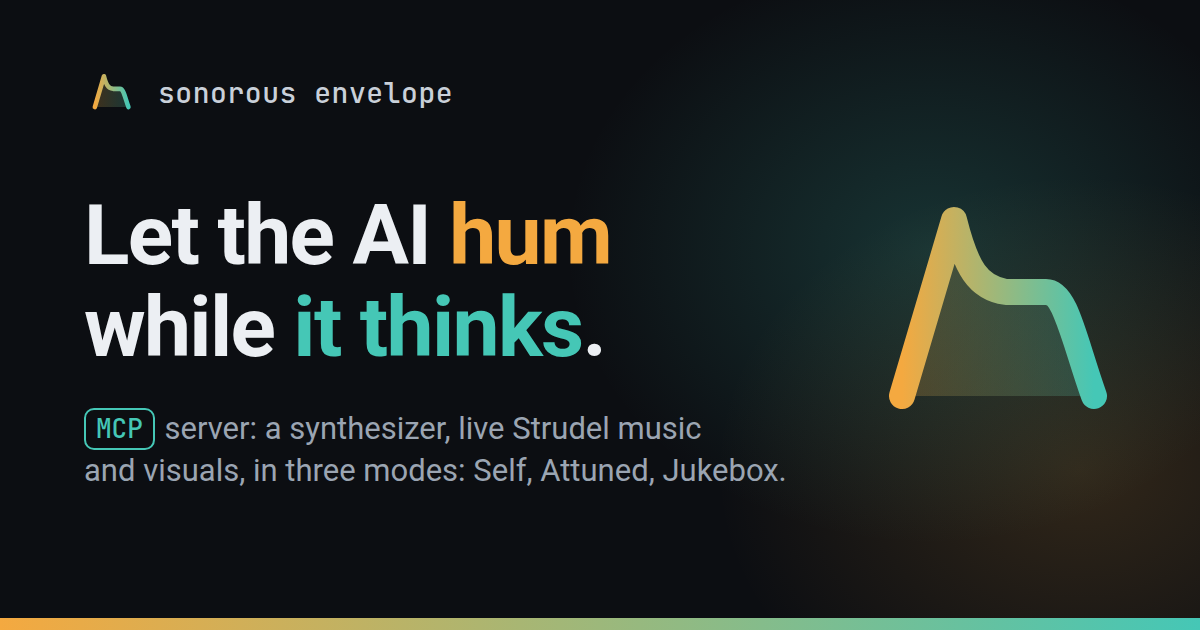
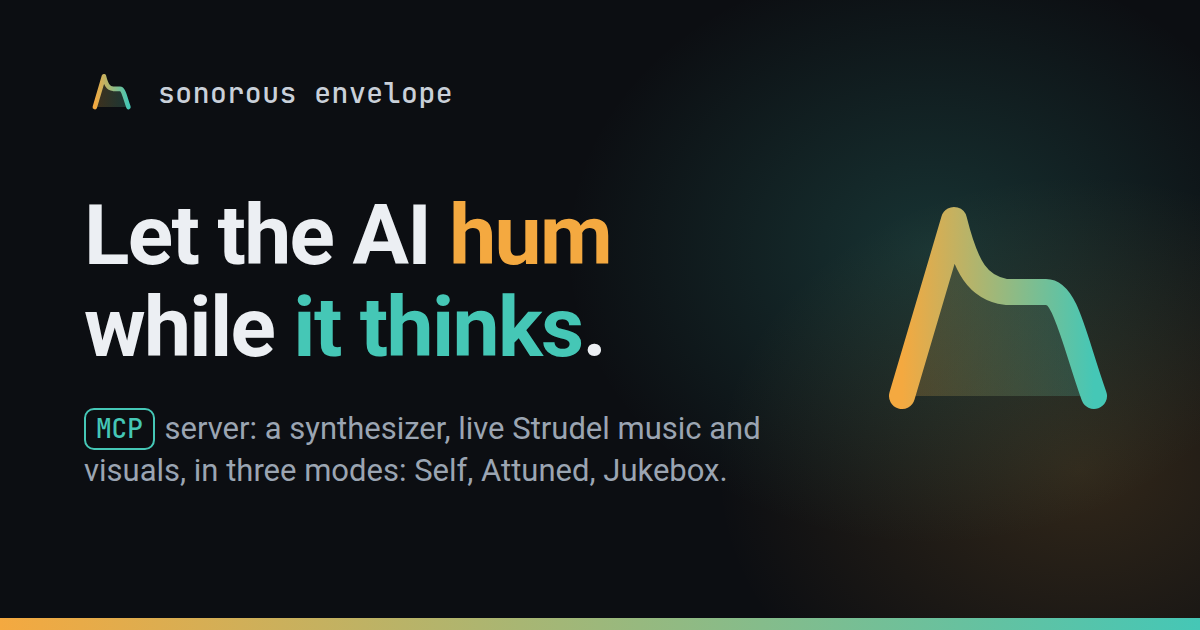
Even out the share card's two description lines

Changed region(s): [[0.0617, 0.7238, 0.6475, 0.7841], [0.5858, 0.6635, 0.6475, 0.6937]]

diff --git a/docs/brand/og-card.html b/docs/brand/og-card.html
@@ -31,6 +31,6 @@ p{font-size:31px;line-height:42px;color:#9ba5b2;margin-top:34px;width:780px;whit
     <span>sonorous envelope</span>
   </div>
   <h1>Let the AI <span class="hum">hum</span> while <span class="think">it thinks</span>.</h1>
-  <p><span class="chip">MCP</span> server: a synthesizer, live Strudel music<br>and visuals, in three modes: Self, Attuned, Jukebox.</p>
+  <p><span class="chip">MCP</span> server: a synthesizer, live Strudel music and<br>visuals, in three modes: Self, Attuned, Jukebox.</p>
 </div>
 <div class="bar"></div>
